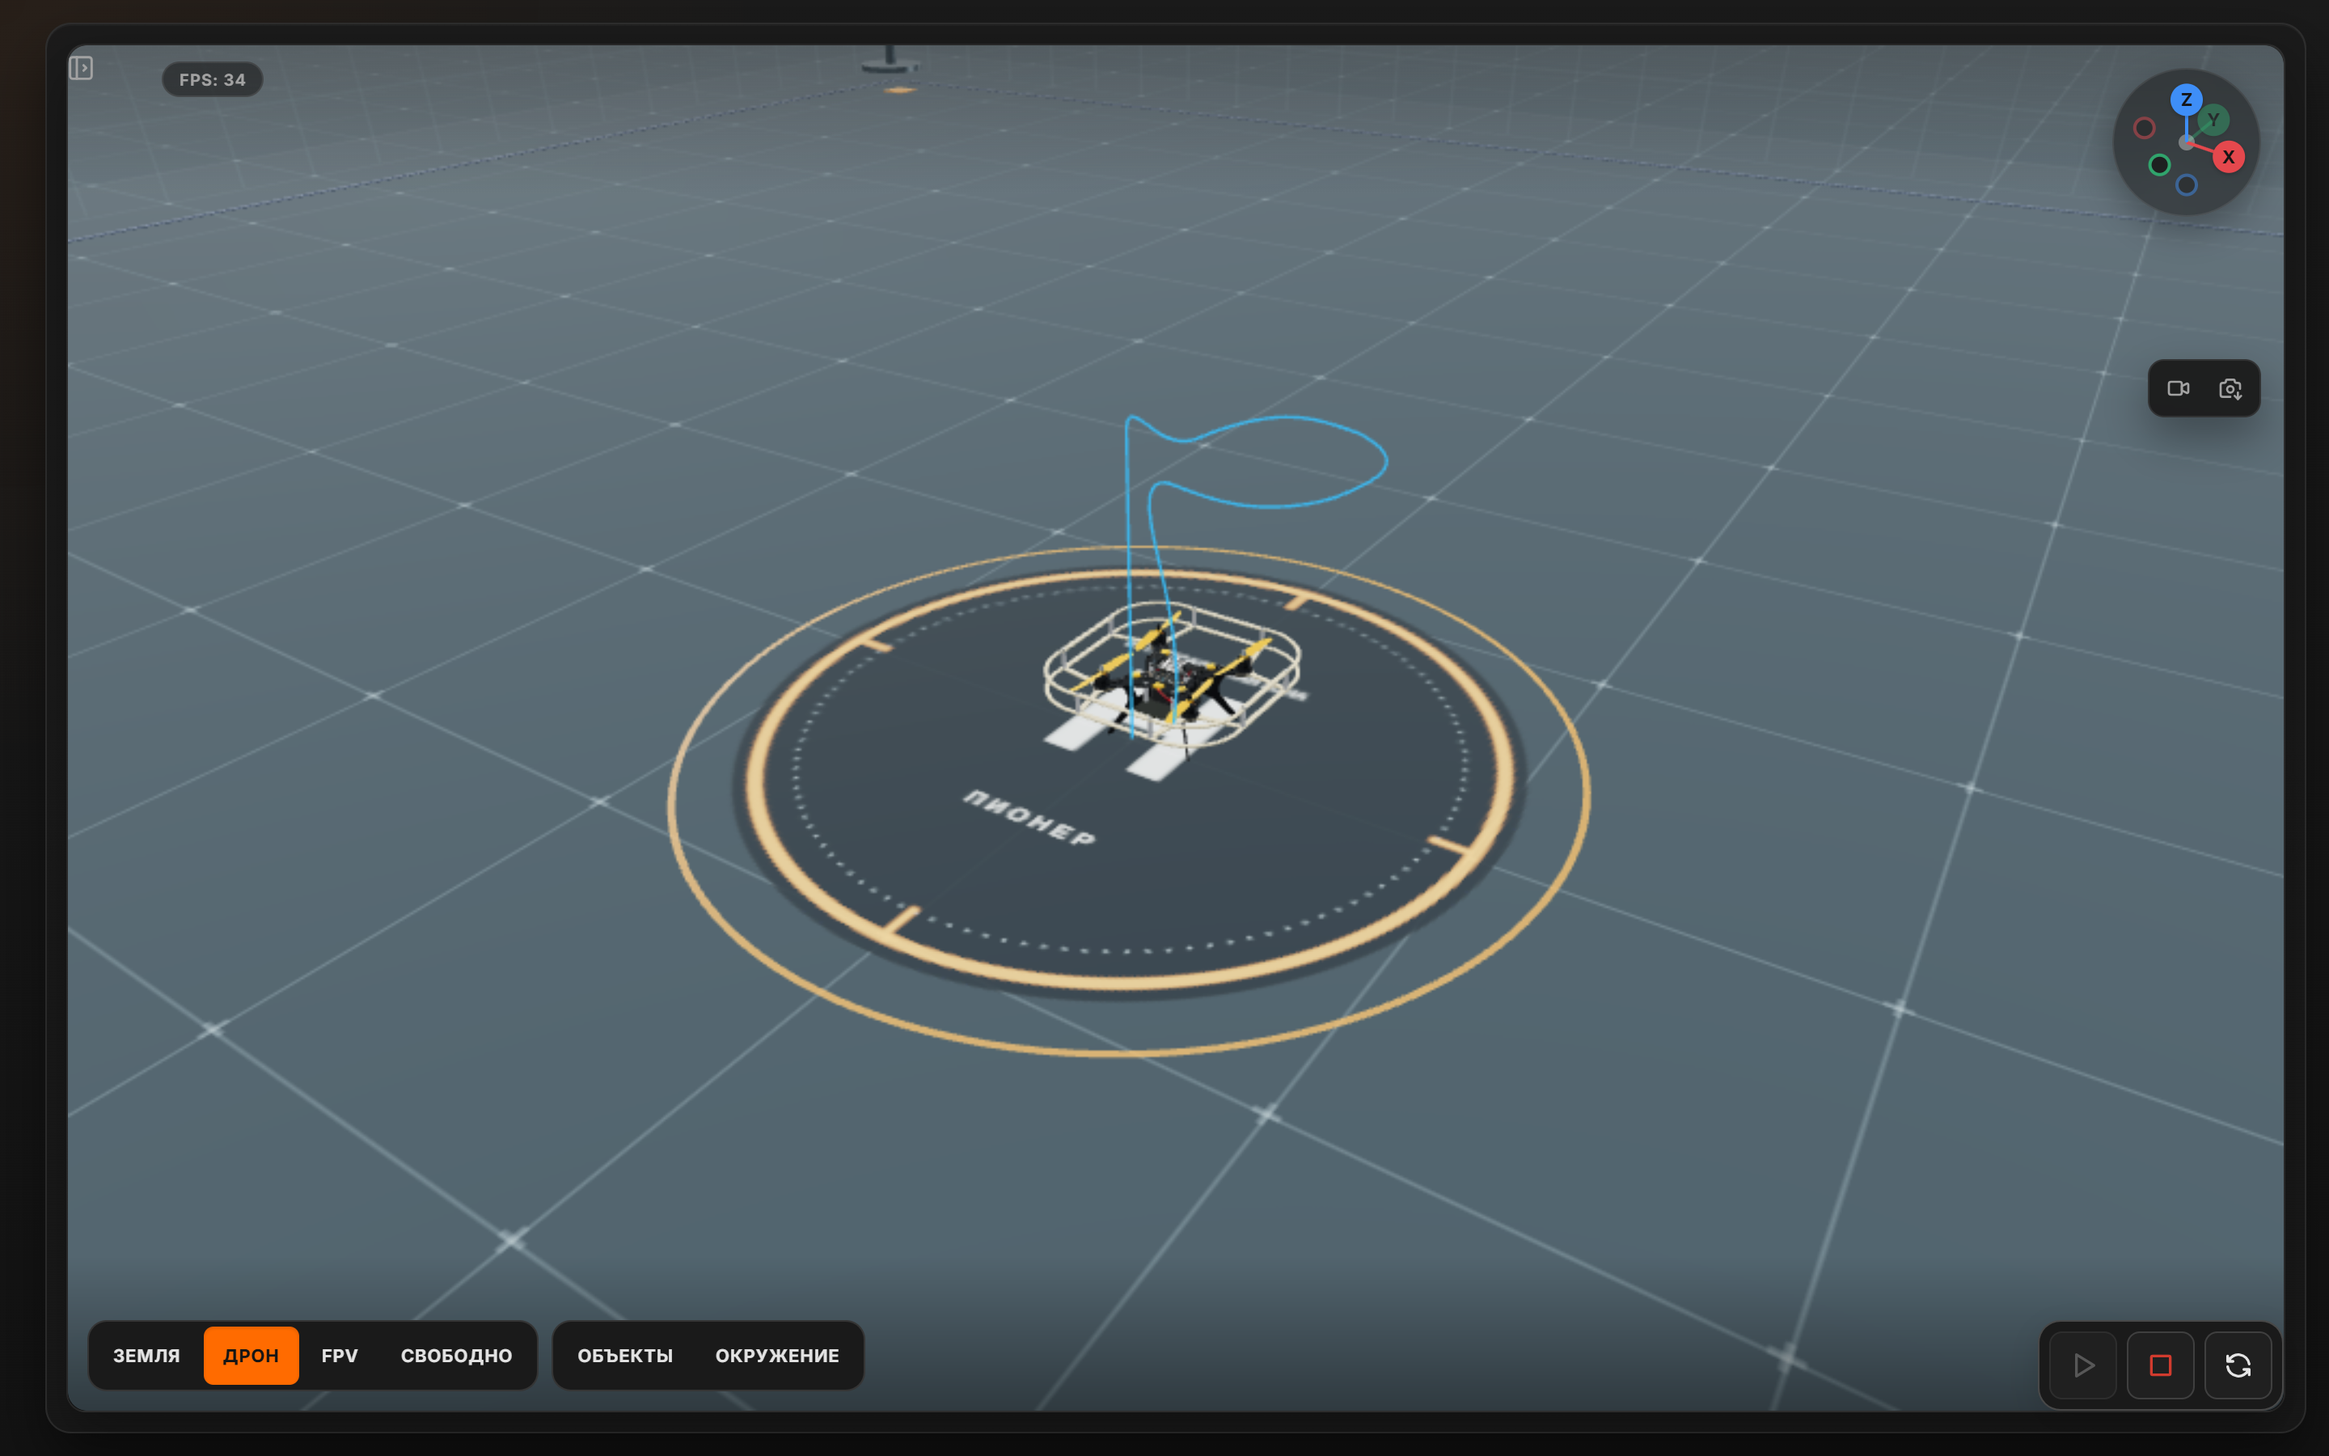
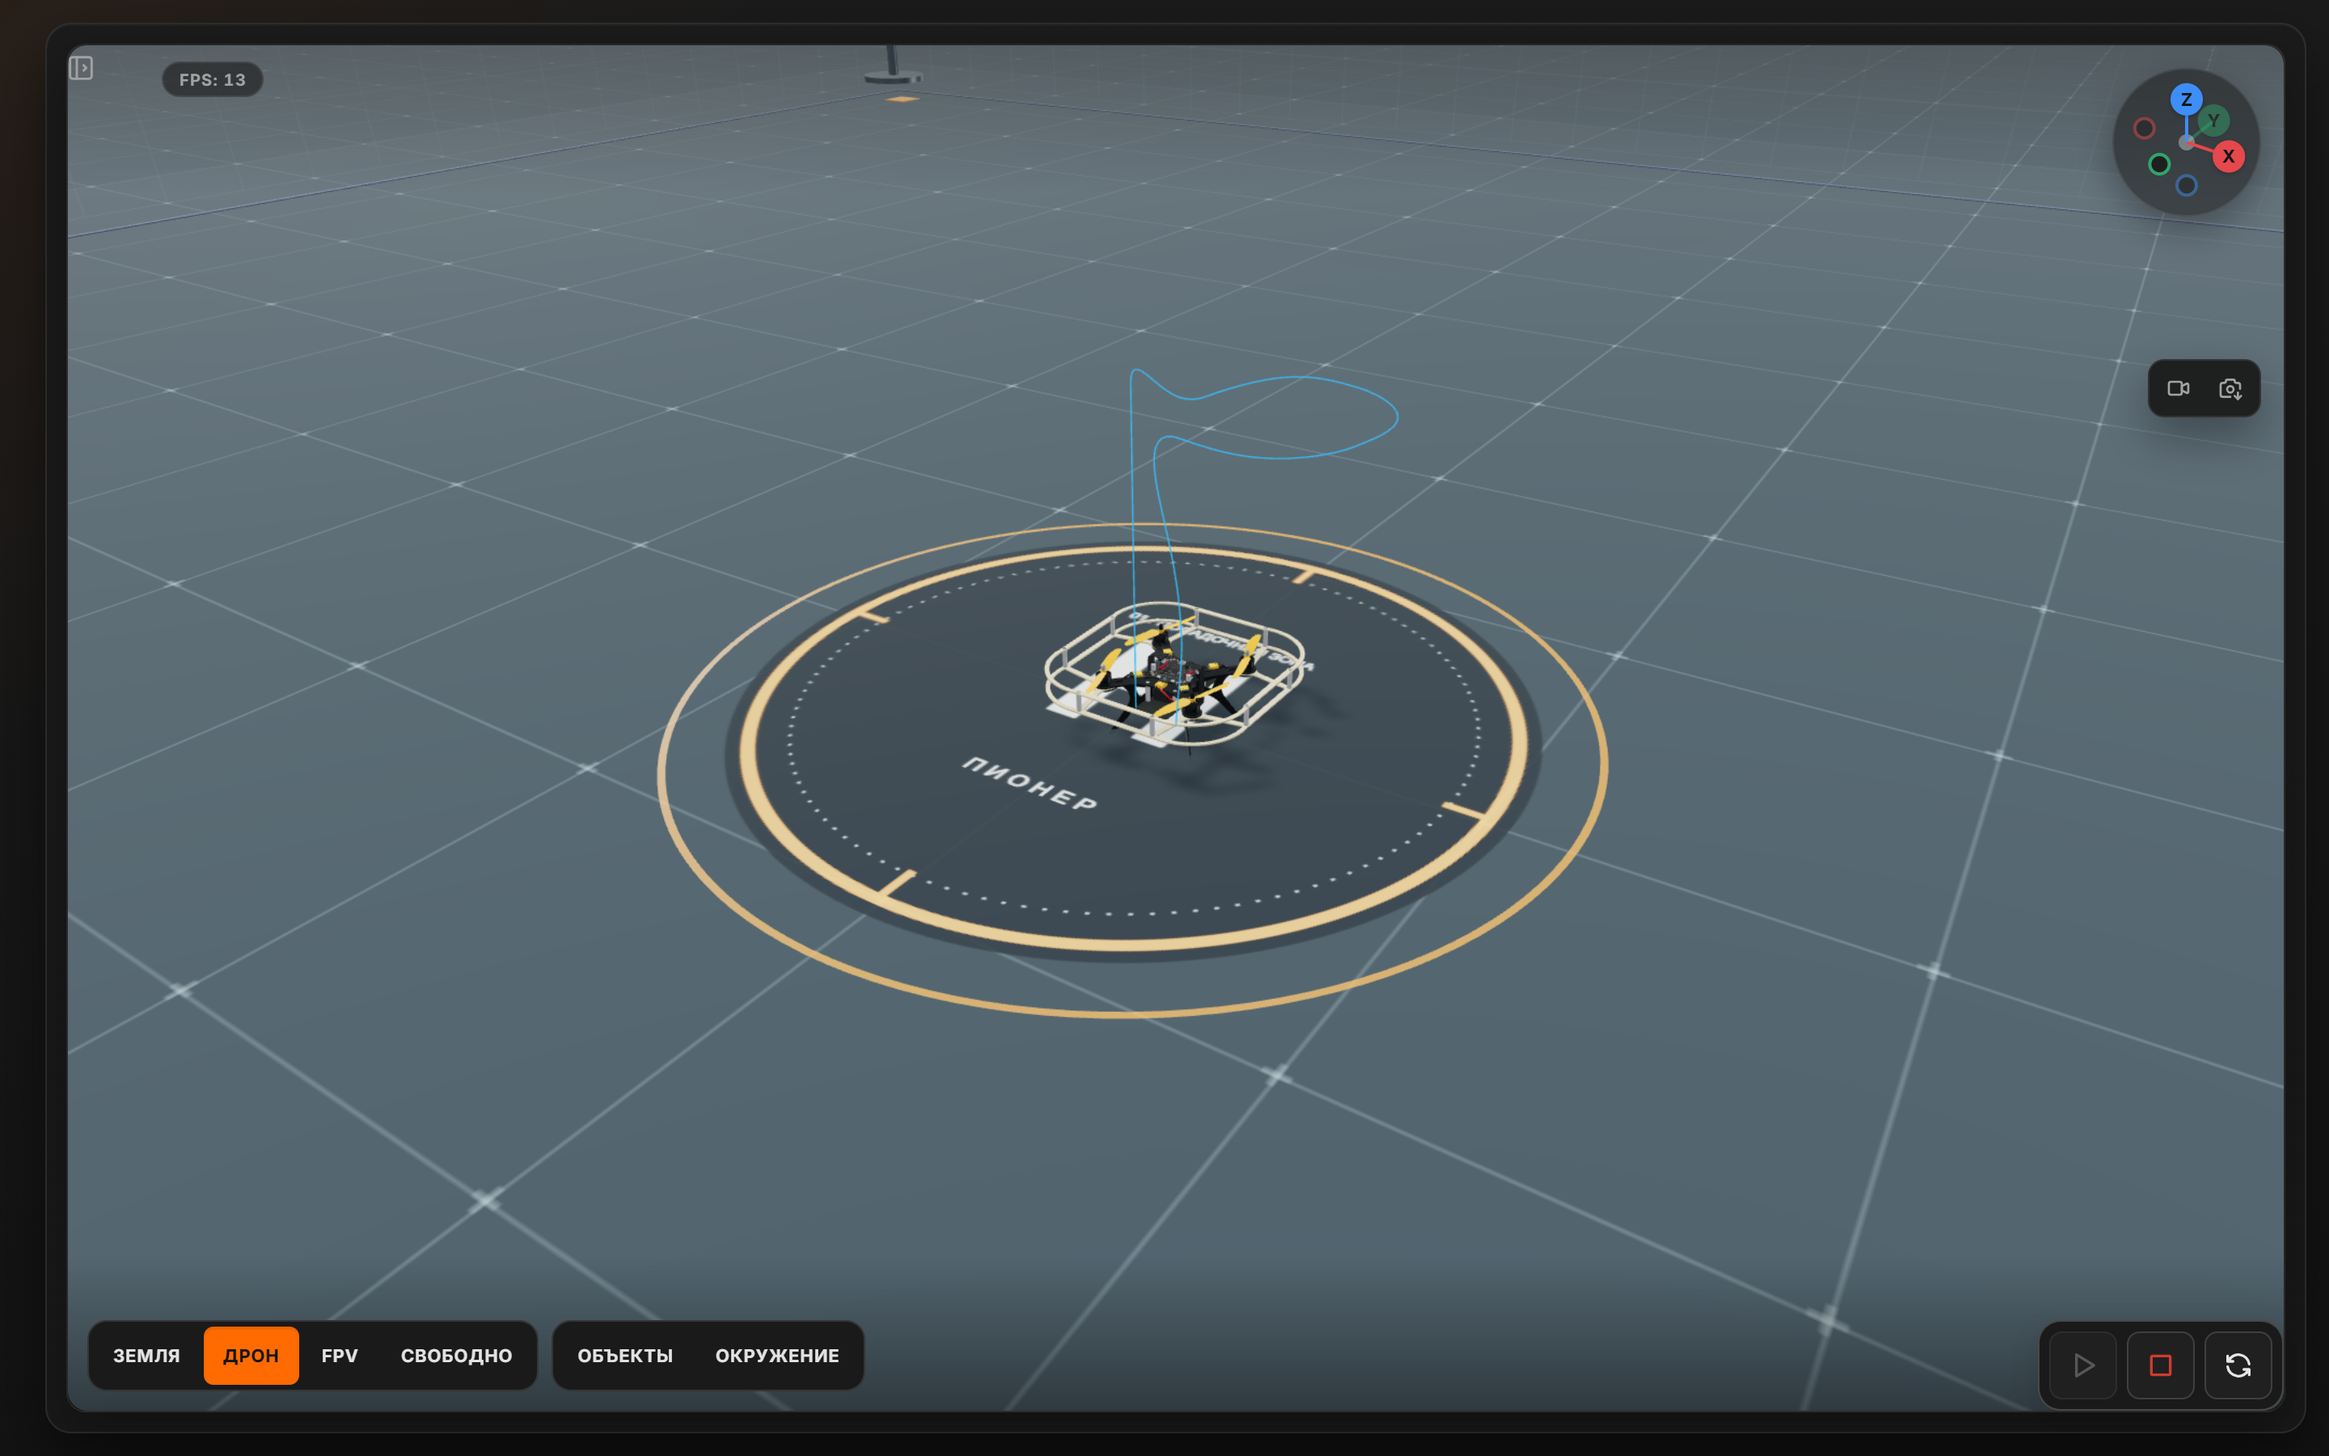
Document the repository structure problems and a migration plan; refresh the README flight screenshot

diff --git a/docs/repo-structure.md b/docs/repo-structure.md
@@ -1,0 +1,93 @@
+# Структура репозитория: что не так и как привести в порядок
+
+Документ описывает текущее состояние, целевую структуру, таблицу переноса и порядок миграции. Ничего из переноса пока **не выполнено**: пути на этих каталогах зашиты в CI, тестах, LaTeX и конфигах, поэтому сначала согласуем план.
+
+## Что сейчас мешает
+
+| Проблема | Где | Чем плохо |
+|---|---|---|
+| Главный продукт спрятан на 7 уровней вглубь | `personal/lessons/code/lua/web-simulator` | Симулятор давно умеет Lua, Python и Blockly, при этом лежит в «lua» внутри «lessons» внутри «personal». Новичок его не найдёт. |
+| Каталог `personal` ничего не значит | `personal/lessons/...` | Один подкаталог внутри, имя говорит «чьё», а не «что». |
+| Три копии примеров | `personal/lessons/code/lua/examples`, `code/python/examples`, `web-simulator/examples`, `web-simulator/examples-python` | Книга берёт примеры из первых двух, симулятор из копий, копии обновляет скрипт `sync-examples`. Легко отредактировать не ту. |
+| Результаты сборки в git | `personal/lessons/build` (156 файлов, кэш minted, `main.pdf`) | Шум в каждом коммите, конфликты, раздутая история. |
+| Устаревшие вещи в корне и рядом | `missions_points_flight.lua`, `status-before-dc.txt`, `personal/lessons/*.txt`, `*.lua`, `code/lua/simulator` (старый Lua-симулятор, 24 КБ) | Непонятно, что актуально. |
+| Скрипты под старую раскладку | `scripts/update_structure.py`, `fix_python_paths.py`, `fix_python_examples_paths.py`, `personal/lessons/update_paths.py` | Правят пути, которых уже нет. |
+| Документы симулятора раздроблены | `web-simulator/docs` (аудиты, планы, JSON-отчёты), `web-simulator/*.md`, корневой `docs/` | Сложно понять, что читать, а что отчёт прошлой итерации. |
+| Сторонние материалы двух видов | `geoskan/` (PDF производителя), `vendor/` (сохранённые HTML-страницы) | Это одно и то же по смыслу: чужое, только для чтения. |
+
+## Целевая структура
+
+```
+Geoskan-Pioneer-for-students/
+├─ README.md
+├─ simulator/                 веб-симулятор (бывший personal/lessons/code/lua/web-simulator)
+│  ├─ public/  tests/  tools/  server*.ts  package.json …
+│  └─ docs/                   только то, что нужно разработчику симулятора
+├─ book/                      учебник (бывший personal/lessons/{tex,data,build.bat})
+│  ├─ tex/
+│  ├─ data/
+│  └─ build.bat               результат сборки в build/ (в .gitignore), PDF отдаём через Releases
+├─ examples/                  ЕДИНСТВЕННЫЙ источник примеров
+│  ├─ lua/        02_sensors  04_language  05_leds  06_missions
+│  ├─ lua-tasks/  (бывшее code/lua/tasks)
+│  └─ python/     (бывшее code/python/examples, вместе с answers)
+├─ third-party/
+│  ├─ geoskan/                материалы производителя (бывшая geoskan/)
+│  └─ web-docs/               сохранённые страницы (бывшая vendor/)
+├─ docs/                      README-картинки, этот документ, обзоры
+└─ tools/                     общие скрипты (оставить только живые)
+```
+
+Идея: **что запускаем** (`simulator`), **что читаем** (`book`), **чему учим** (`examples`), **чужое** (`third-party`). Любой каталог верхнего уровня понятен по имени.
+
+## Таблица переноса
+
+| Было | Станет |
+|---|---|
+| `personal/lessons/code/lua/web-simulator/` | `simulator/` |
+| `personal/lessons/tex/` | `book/tex/` |
+| `personal/lessons/data/` | `book/data/` |
+| `personal/lessons/build.bat` | `book/build.bat` |
+| `personal/lessons/build/` | удалить из git, добавить в `.gitignore` |
+| `personal/lessons/code/lua/examples/` | `examples/lua/` |
+| `personal/lessons/code/lua/tasks/` | `examples/lua-tasks/` |
+| `personal/lessons/code/python/{examples,answers}/` | `examples/python/` |
+| `simulator/examples/`, `simulator/examples-python/` (копии) | не хранить, `sync-examples` собирает их при сборке; в `.gitignore` |
+| `geoskan/` | `third-party/geoskan/` |
+| `vendor/` | `third-party/web-docs/` |
+| `scripts/` | `tools/`, устаревшее удалить |
+| `personal/lessons/code/lua/simulator/` | удалить (старый Lua-симулятор) или `archive/` |
+| `missions_points_flight.lua`, `status-before-dc.txt`, `personal/lessons/*.txt|*.lua` | перенести в `examples/lua/` или удалить |
+
+## Что придётся поправить после переноса
+
+1. `.github/workflows/web-simulator-ci.yml`: пути `paths:`, `working-directory`, `cache-dependency-path` указывают на старый каталог.
+2. `simulator/tools/sync_lesson_examples.mjs`: источники `../examples` и `../../python/examples` станут `../examples/lua` и `../examples/python`.
+3. `simulator/vite.config.ts`: корни плагина `examplesApiPlugin` (`examples`, `../examples`, `../../python/examples`) и `outDir`.
+4. `simulator/tests/lessons-book-examples.test.ts` (читает `tex/main.tex` и файлы примеров), а также `editor-temporary-document.test.ts` и `mission-guide-drafts.test.ts`, если они читают пути репозитория.
+5. LaTeX: базовый каталог окружения `codefile` в `book/tex/styles/preamble.tex` (сейчас пути вида `lua/examples/...` считаются от `code/`), `build.bat`, пути к `images/`.
+6. `README.md`, `book/README.md`, `docs/`: ссылки и раздел про лицензию (упоминает `/personal`).
+7. Деплой симулятора (`simulator.sakoryagin.ru`): если сборка запускается из старого каталога, обновить рабочий каталог. `Dockerfile` лежит внутри симулятора и переедет вместе с ним.
+8. `.claude/launch.json` и любые закладки/ярлыки на старые пути.
+
+## Порядок миграции (по шагам, каждый шаг отдельным коммитом)
+
+1. **Очистка без переносов.** Убрать из git `personal/lessons/build`, дописать `.gitignore` (`build/`, `*.stackdump`, `.impeccable/`, `.tmp/`), вынести устаревшие скрипты и стражей из корня.
+2. **Единый источник примеров.** Перенести примеры в `examples/`, поправить `sync_lesson_examples.mjs`, vite и тест книги, удалить копии из симулятора. Проверка: `npm run sync-examples`, `jest tests/lessons-book-examples.test.ts`.
+3. **Учебник.** `git mv personal/lessons/tex book/tex`, поправить `preamble.tex` и `build.bat`. Проверка: `book/build.bat`, PDF собирается, листинги подсвечены.
+4. **Симулятор.** `git mv personal/lessons/code/lua/web-simulator simulator`, поправить CI и деплой. Проверка: `npm ci`, `type-check`, `lint`, `test`, `npm run build`.
+5. **Сторонние материалы и документы.** `geoskan` и `vendor` в `third-party`, документы симулятора разобрать на «нужные» и «архив отчётов».
+6. **Финиш.** Удалить пустой `personal/`, обновить README и лицензионный раздел.
+
+`git mv` сохраняет историю файлов, поэтому `git log --follow` продолжит работать.
+
+## Риски и как их снять
+
+* **Сломать CI или деплой.** Шаг 4 делаем в отдельной ветке, CI гоним до слияния.
+* **Потерять локальные закладки и настройки редактора.** Предупредить в README (раздел «Что изменилось»).
+* **Длинные пути на Windows.** После переноса они станут короче (7 уровней вместо 3), так что это плюс.
+* **Большие бинарные файлы в истории** (`pioneer-basic.glb` и др.) не решаются переносом. Если размер репозитория станет проблемой, позже можно подключить Git LFS для `*.glb`, `*.blend`, `*.pdf`.
+
+## Минимальный вариант, если переносить не хочется
+
+Не двигать каталоги, а только: убрать `build/` из git, сделать копии примеров генерируемыми (`.gitignore`), удалить устаревшее, положить в `personal/lessons/code/lua/web-simulator/README.md` пометку «это главный проект» и сослаться на него из корневого README. Это закрывает около половины проблем почти бесплатно.
